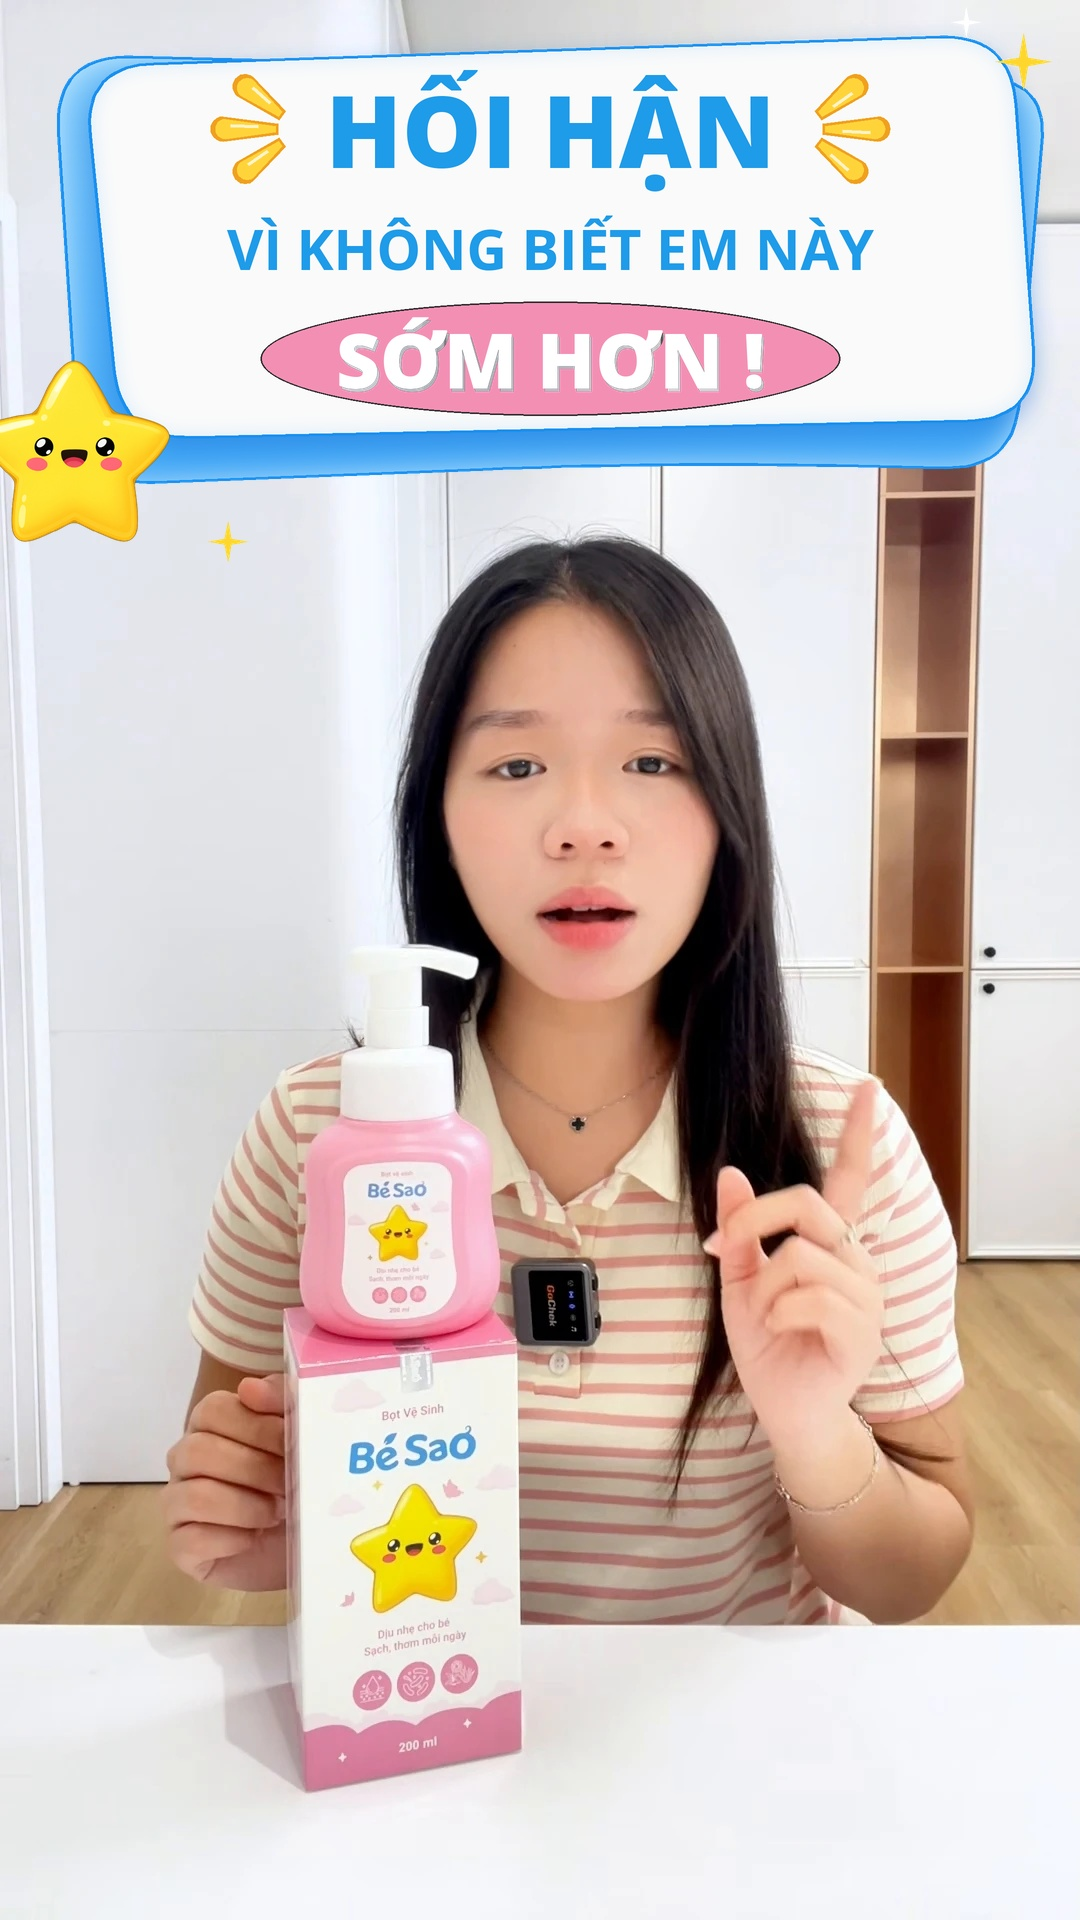
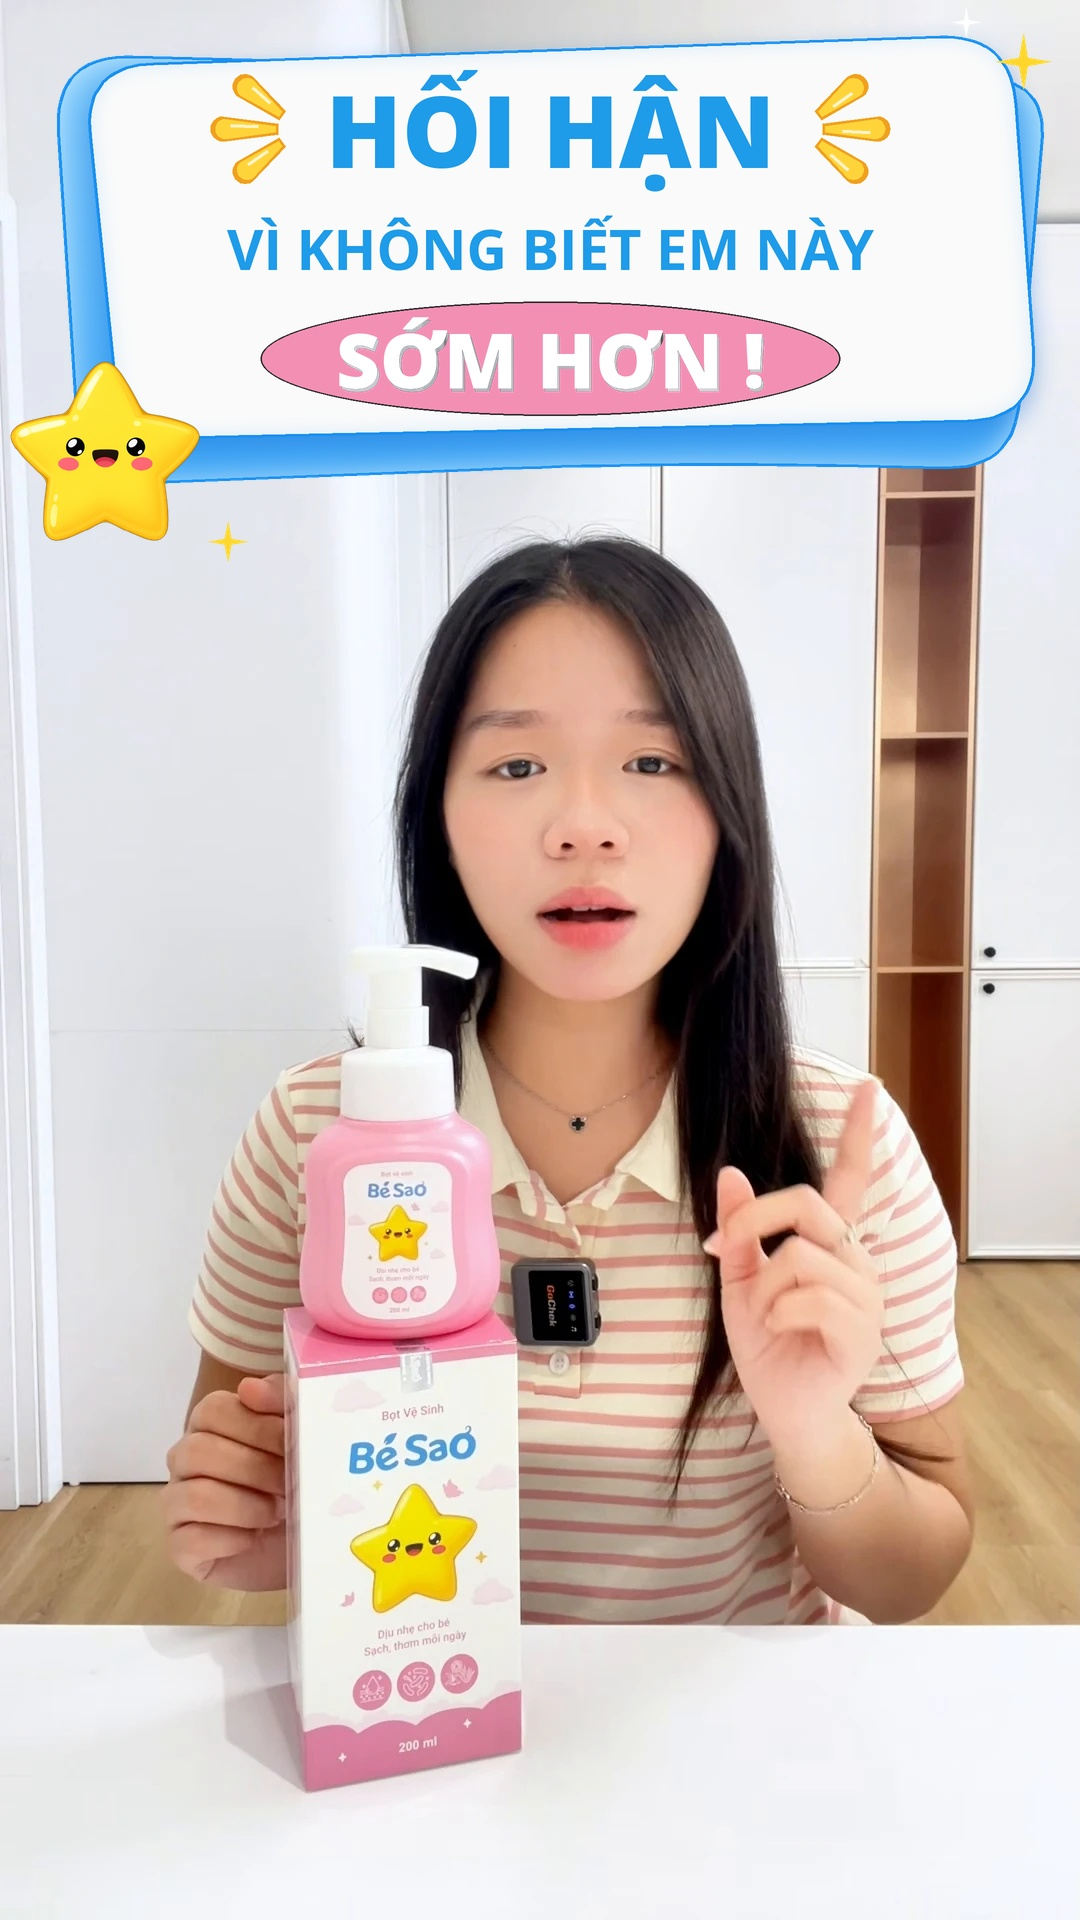
Keep the star mascot fully inside the cover
The star was placed 20px past the left edge, cutting off its left tip;
place it 10px inside the edge instead. Also restore the tip that was cut
off in the source screenshot by mirroring the right tip.

Claude-Session: https://claude.ai/code/session_01Ug3WuR9fbtqxhsVyfjB7mN

Changed region(s): [[0.0, 0.1875, 0.1833, 0.2812]]

diff --git a/.claude/skills/tao-anh-bia/scripts/tao_anh_bia.py b/.claude/skills/tao-anh-bia/scripts/tao_anh_bia.py
@@ -742,7 +742,8 @@ def tao_lop_phu(hook, sao="trai", diem_nhan="tu-dong", y_top=45, ty_le=1.0):
 
     if sao != "an":
         st = ve_ngoi_sao(s(190 * max(ty_le, 0.85)))
-        sx = x0 - s(40) if sao == "trai" else x0 + cw - st.width + s(40)
+        # giữ trọn ngôi sao trong ảnh, cách mép 10px
+        sx = s(10) if sao == "trai" else W * S - st.width - s(10)
         sy = int(y0 + ch * 0.86 - st.height / 2)
         layer.alpha_composite(st, (int(sx), sy))
 
